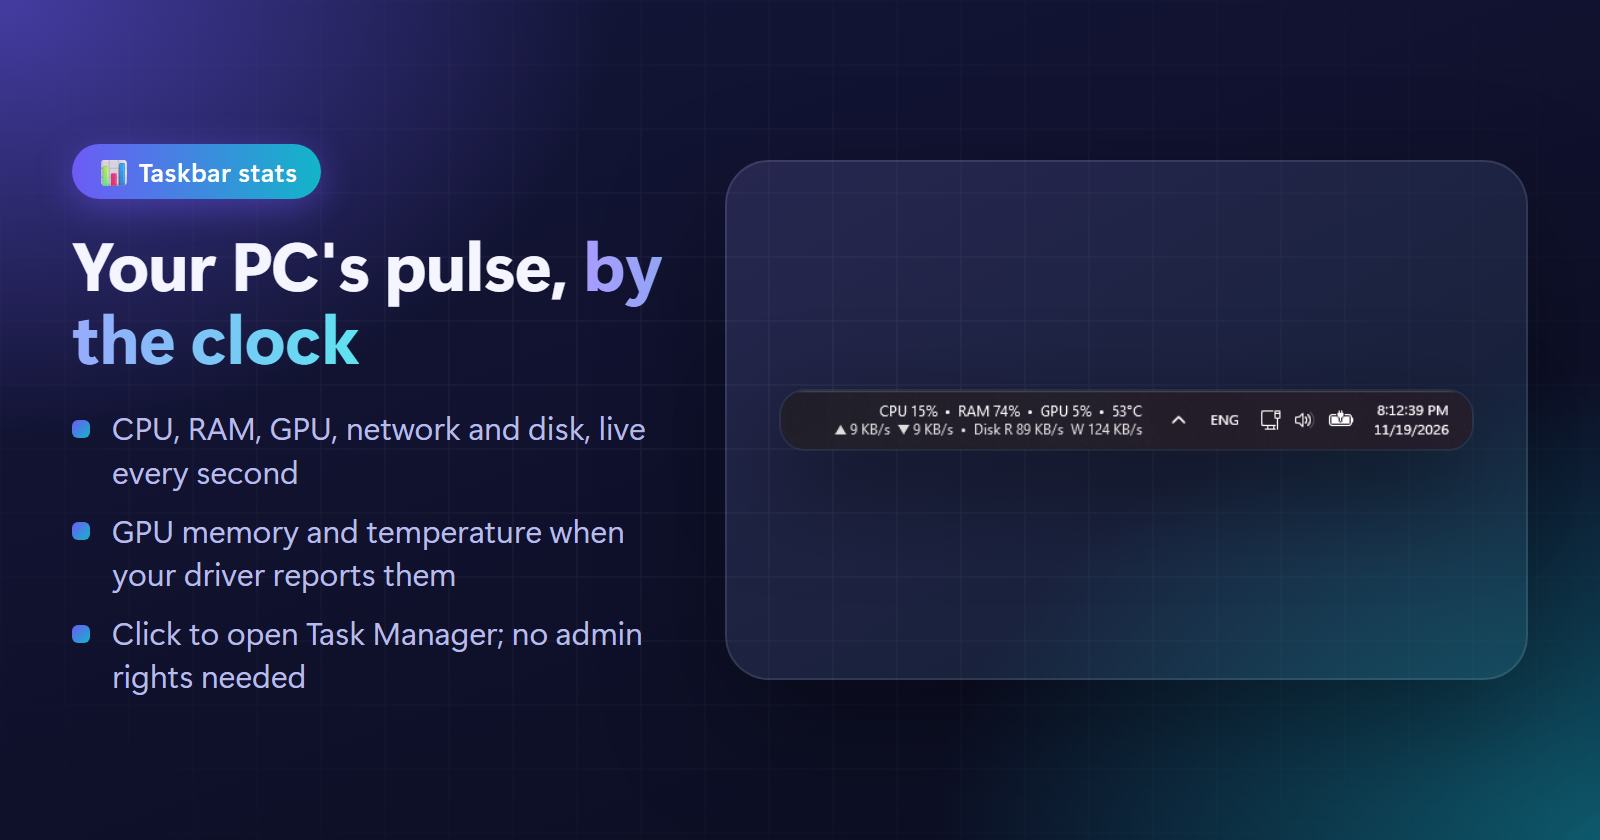
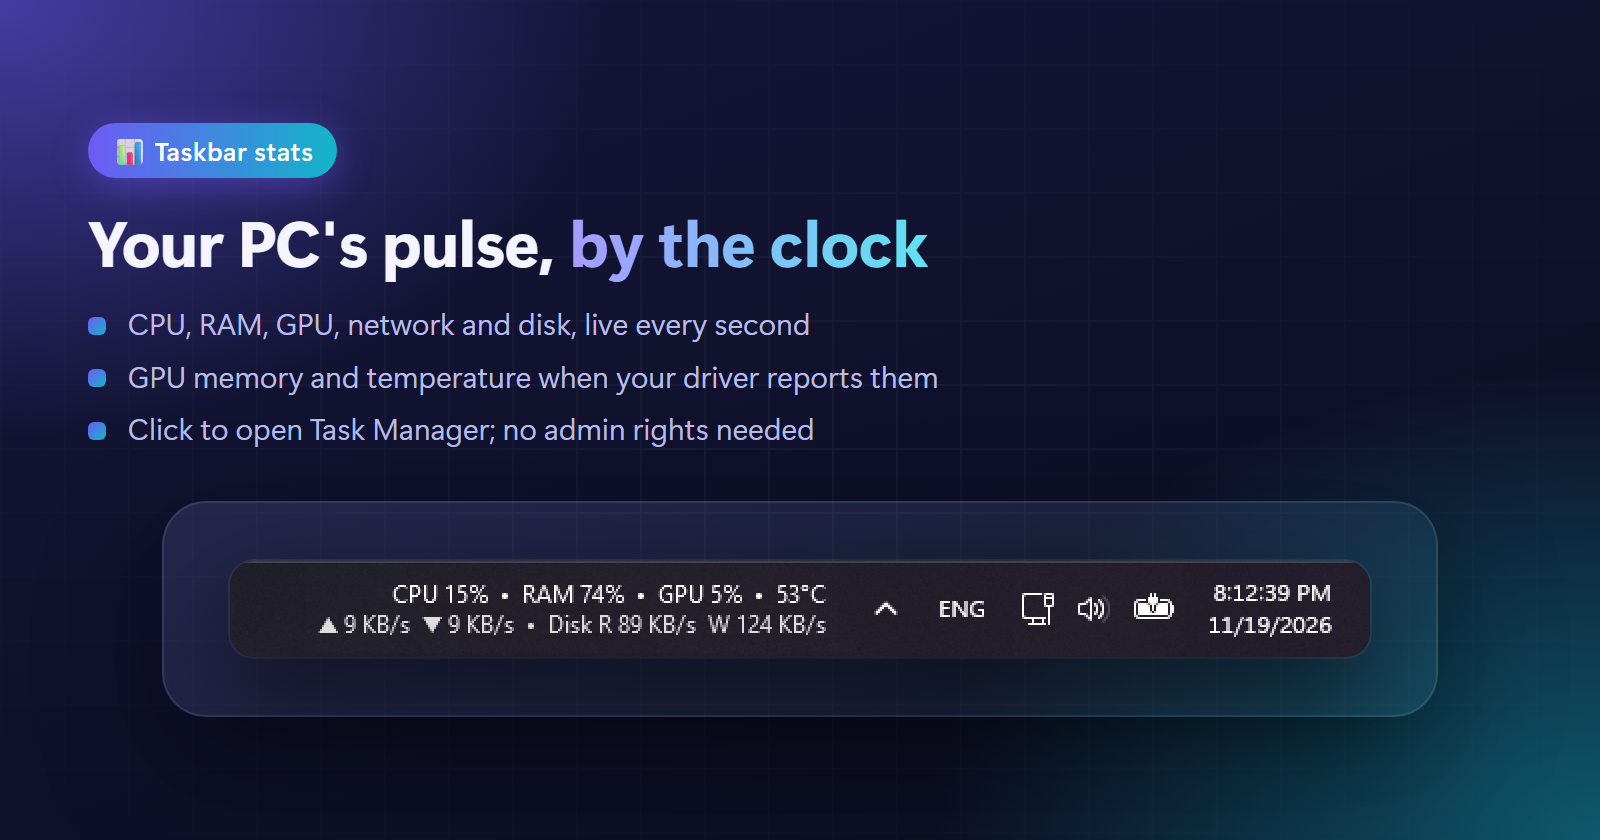
NxtFlyout 1.2.0
Taskbar stats release. Also sharpens the README cards: small screenshots
are now drawn at their native size with pixel-exact scaling instead of
being stretched and smoothed, the stats card shows its strip full size,
and Up Next has a tighter crop.

Changed region(s): [[0.0312, 0.1238, 0.9062, 0.5262], [0.0312, 0.5571, 0.5625, 0.8357], [0.5938, 0.65, 0.9375, 0.8667]]

diff --git a/docs/promo/cards.html b/docs/promo/cards.html
@@ -75,13 +75,26 @@
     box-shadow: 0 18px 50px rgba(0,0,0,.55), 0 0 0 1px rgba(255,255,255,.08);
   }
 
-  /* Small screenshots sit on a glass panel, filling its width, so they keep some presence. */
+  /*
+    Small screenshots sit on a glass panel at their exact native size. The page renders at 2x,
+    so each screen pixel becomes exactly 2x2 output pixels; "pixelated" copies them as they are
+    instead of smoothing, which keeps the text crisp. Never stretch these to fit: a fractional
+    scale is what makes them blurry.
+  */
   .shot.panel {
     align-self: center; height: 260px; padding: 0 28px; border-radius: 22px;
     background: linear-gradient(145deg, rgba(167,155,255,.14), rgba(94,227,240,.08));
     box-shadow: inset 0 0 0 1px rgba(255,255,255,.10), 0 24px 60px rgba(0,0,0,.35);
   }
-  .shot.panel img { width: 100%; max-height: none; }
+  .shot.panel img { width: auto; max-width: none; max-height: none; image-rendering: pixelated; }
+
+  /* Stacked: words on top, a wide screenshot underneath at full size (the taskbar stats strip). */
+  .feature.stacked { flex-direction: column; align-items: stretch; justify-content: center; gap: 26px; padding: 0 44px; }
+  .feature.stacked .words { flex: none; }
+  .feature.stacked h2 { font-size: 32px; }
+  .feature.stacked ul { display: flex; flex-wrap: wrap; gap: 6px 26px; margin-top: 14px; }
+  .feature.stacked li { margin-top: 0; font-size: 15px; }
+  .feature.stacked .shot.panel { flex: none; align-self: center; height: auto; padding: 30px 34px; }
 
   /* Banner: logo and name centred over the glow, the hero screenshot below. */
   .banner { flex-direction: column; align-items: center; justify-content: center; text-align: center; }
@@ -166,7 +179,7 @@
   <div class="shot panel"><img src="../screenshots/taskbar-widget.png" alt=""></div>
 </section>
 
-<section class="card feature" id="stats">
+<section class="card feature stacked" id="stats">
   <div class="words">
     <span class="chip">📊 Taskbar stats</span>
     <h2>Your PC's pulse, <em>by the clock</em></h2>

diff --git a/README.md b/README.md
@@ -116,8 +116,8 @@ self-contained, so the target PC does not need .NET.
 Releases are built by GitHub Actions on a Windows machine:
 
 ```powershell
-git tag v1.1.2
-git push origin v1.1.2
+git tag v1.2.0
+git push origin v1.2.0
 ```
 
 The **Release** workflow (`.github/workflows/release.yml`) takes the version from the tag, runs
